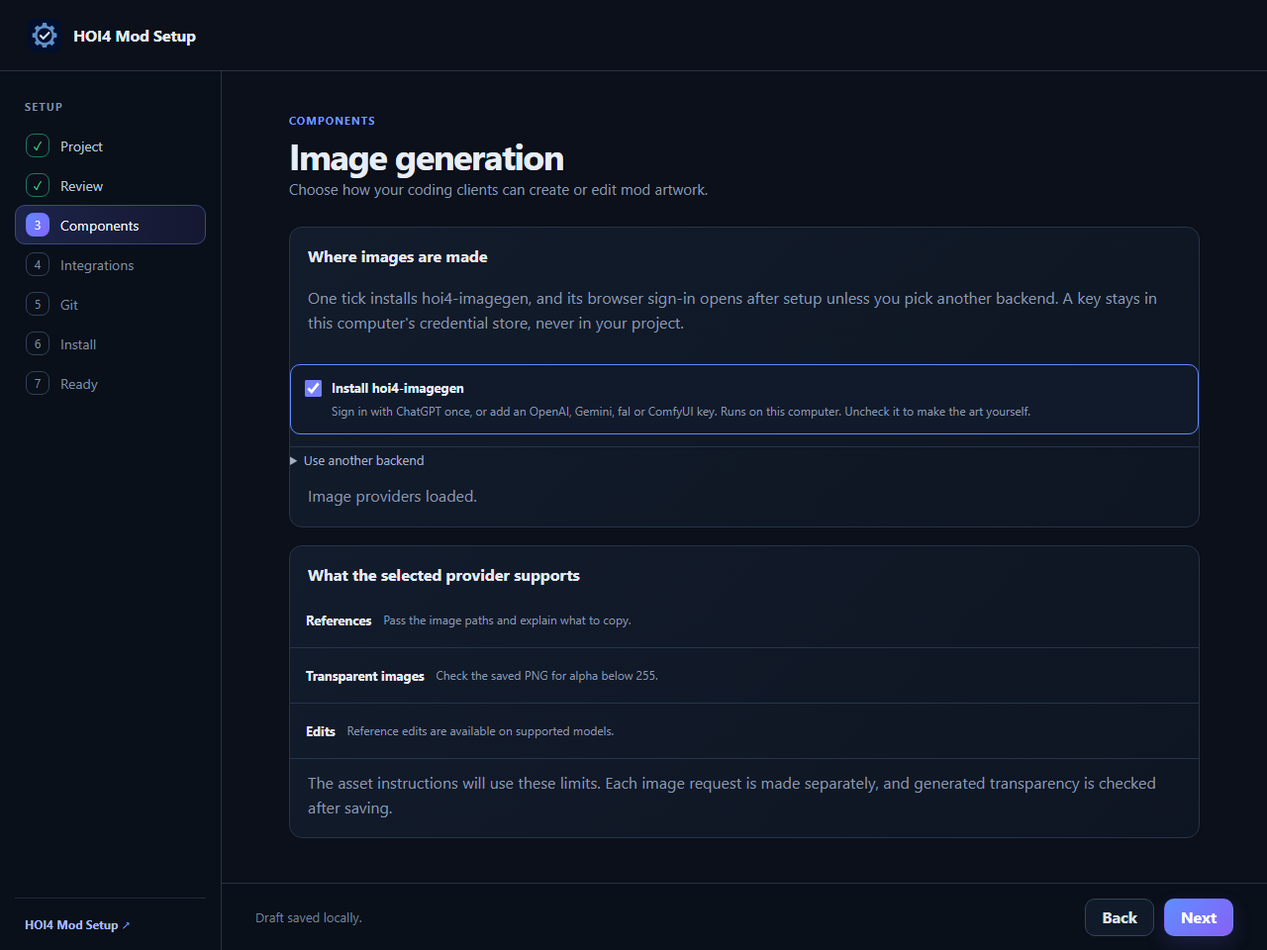
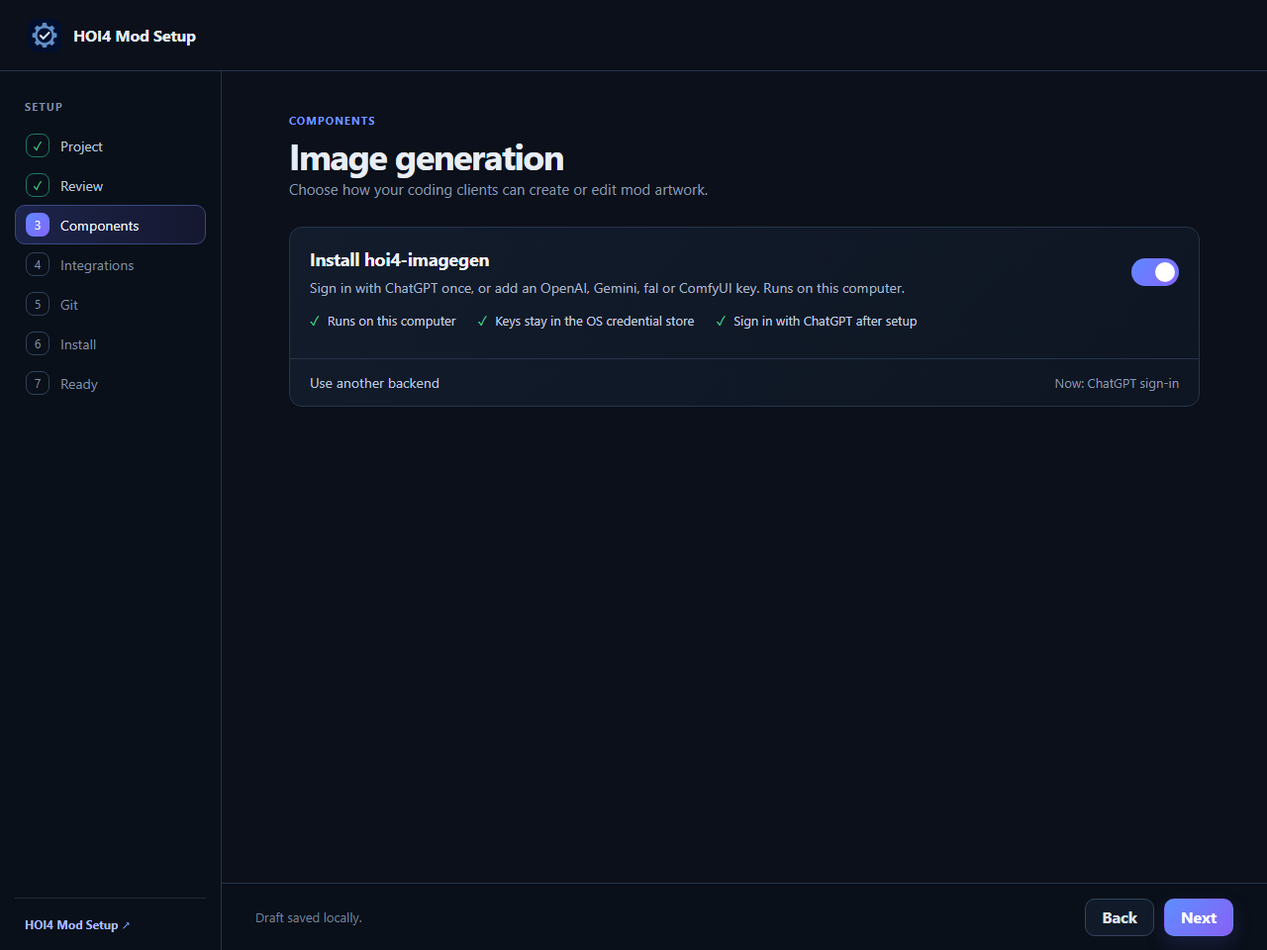
ui: redesign the image generation step; explain in-use stops on recovery
- Image generation: one switch card with three facts, backend tiles with a
  monogram and what each backend needs, and the capability rows inside the
  backend disclosure. The radio names stay the backend names.
- Recovery: an Access is denied / file-in-use error now tells the user to
  close the coding client or hoi4-imagegen window holding the file; undo
  alone does not help while it stays open.
- Narrow windows: the step heading no longer reserves 320 px of height.
- Fix a pattern with literal backspace characters, so npm errors get the
  Python hint again.

diff --git a/src/App.tsx b/src/App.tsx
@@ -4,7 +4,7 @@ import { applyInstallationResult, approveInstallation, checkInstallationRequirem
 import { deriveGeneratedIdentity, HOI4_DESCRIPTOR_TAGS } from "./identity";
 import { base64ByteLength, base64DataUrl, renderCoverPng, renderReferenceJpeg } from "./lib/images";
 import { backendSettingsProblem, imageSettingLabel, imageSettingProblem } from "./lib/imageSettings";
-import type { AiModelCatalogStatus, AiModelOption, AiProviderId, AiProviderProfile, AppUpdateStatus, CodingEnvironmentId, CodingEnvironmentSelection, CodexAnalysisConfirmationValues, CodexAnalysisRequest, ComponentRecommendation, ComponentRow, ConflictChoice, ConflictPreview, ContextDocumentState, ContextImageState, FolderSelection, GeneratedArtifactPreview, GitOnlineAction, GitOnlinePlan, GitOnlineResult, ImageGenerationProviderDefinition, ImageGenerationSelection, LiveTestingSelection, InstallationPlan, LocalPortraitDiscovery, ManifestComponentPreview, McpSupport, PhaseId, PortraitPipelineState, PortraitProviderId, PortraitProviderStatus, ProjectIdentity, ReadinessReport, RecoveryChoice, ScanFinding, ScanProgress, ScreenId, SemanticConventions, SetupRequirement, SemanticProposalKey, SourceManifestPreview, StatusTone, TransactionJournal, WizardState, WorkflowHealthResult, WorkflowState } from "./types";
+import type { AiModelCatalogStatus, AiModelOption, AiProviderId, AiProviderProfile, AppUpdateStatus, CodingEnvironmentId, CodingEnvironmentSelection, CodexAnalysisConfirmationValues, CodexAnalysisRequest, ComponentRecommendation, ComponentRow, ConflictChoice, ConflictPreview, ContextDocumentState, ContextImageState, FolderSelection, GeneratedArtifactPreview, GitOnlineAction, GitOnlinePlan, GitOnlineResult, ImageBackend, ImageGenerationProviderDefinition, ImageGenerationSelection, LiveTestingSelection, InstallationPlan, LocalPortraitDiscovery, ManifestComponentPreview, McpSupport, PhaseId, PortraitPipelineState, PortraitProviderId, PortraitProviderStatus, ProjectIdentity, ReadinessReport, RecoveryChoice, ScanFinding, ScanProgress, ScreenId, SemanticConventions, SetupRequirement, SemanticProposalKey, SourceManifestPreview, StatusTone, TransactionJournal, WizardState, WorkflowHealthResult, WorkflowState } from "./types";
 import appIcon from "../src-tauri/icons/icon.png";
 import claudeModels from "./claude-models.json";
 import freeAssistantConfig from "./free-assistant.json";
@@ -3461,19 +3461,50 @@ export function ImageGenerationSetup({ state, update }: { state: WizardState; up
   const backendField = imagegen?.route.credential_fields?.find((field) => field.id === backend?.credential_field);
   const backendKey = backendField ? `${IMAGEGEN_PROVIDER_ID}.${backendField.id}` : "";
   const backendKeySaved = Boolean(backendKey && selection.credential_references[backendKey]);
+  const backendHint = (option: ImageBackend) => {
+    if (option.default) return "No key needed. Sign in after setup.";
+    const field = imagegen?.route.credential_fields?.find((candidate) => candidate.id === option.credential_field);
+    if (field) return field.display_name;
+    if (option.settings.some((setting) => setting.kind === "url")) return "Your own server address";
+    return "No key needed";
+  };
+  const capabilities = primary && <div className="image-capabilities" role="group" aria-label="What this backend supports">
+    <div><strong>References</strong><span>{primary.capabilities.reference_images?.notes ?? "Check the selected provider's model limits."}</span></div>
+    <div><strong>Transparent images</strong><span>{primary.capabilities.transparent_background?.notes ?? "Check the selected provider's model limits."}</span></div>
+    <div><strong>Edits</strong><span>{primary.capabilities.image_edits ? "Reference edits are available on supported models." : "This provider may make a new image from references instead of editing."}</span></div>
+  </div>;
   return <div className="stack narrow">
-    <section className="panel">
-      <PanelTitle title="Where images are made" />
-      <p className="muted">One tick installs hoi4-imagegen, and its browser sign-in opens after setup unless you pick another backend. A key stays in this computer's credential store, never in your project.</p>
-      {!catalog && <p className="muted" role="status">{loadMessage}</p>}
-      {catalog && imagegen && legacyIds.length === 0 && <label className="coding-environment-option image-checkbox"><input type="checkbox" name="image-generation" checked={usingImagegen} disabled={!compatible(imagegen)} onChange={(event) => chooseImagegen(event.target.checked)} /><span className="coding-environment-copy"><strong>Install hoi4-imagegen</strong><small>{imagegen.description} Uncheck it to make the art yourself.</small></span></label>}
-      {catalog && imagegen && usingImagegen && legacyIds.length === 0 && backends.length > 0 && <details className="image-backend-details" open={Boolean(backend && !backend.default)}><summary>Use another backend</summary><div className="image-backend-panel">
-        <span className="field-label" id="image-backend-label">Generate with</span>
-        <div className="coding-environment-options" role="radiogroup" aria-labelledby="image-backend-label">{backends.map((option) => <label className="coding-environment-option" key={option.id}><input type="radio" name="image-backend" value={option.id} checked={backend?.id === option.id} onChange={() => chooseBackend(option.id)} /><span className="coding-environment-copy"><strong>{option.display_name}</strong>{option.default && <small>Default. Signs in with your ChatGPT account after setup.</small>}{option.live_verified === false && <small>Untested with the real service.</small>}</span></label>)}</div>
-        <p className="muted">Setup downloads hoi4-imagegen from its GitHub release, checks its SHA-256, and installs it in this project.{backend?.default ? " After setup you can sign in with ChatGPT on the last screen." : ""}</p>
-        {backendField && <div className="image-provider-secret" key={backendField.id}><label className="field-label" htmlFor={`image-secret-${backendKey}`}>{backendField.display_name}</label><div className="input-with-action"><input id={`image-secret-${backendKey}`} className="text-input" type="password" autoComplete="off" value={drafts[backendKey] ?? ""} onChange={(event) => update({ imageGenerationCredentialDrafts: { ...drafts, [backendKey]: event.target.value } })} /><button type="button" className="input-action" disabled={!drafts[backendKey]?.trim() || savingKey === backendKey} onClick={() => imagegen && void saveCredential(imagegen, backendField.id)}>{savingKey === backendKey ? "Saving…" : "Store"}</button>{backendKeySaved && <button type="button" className="text-button" onClick={() => imagegen && void deleteCredential(imagegen, backendField.id)}>Delete</button>}</div><small className="muted">{backendKeySaved ? "Stored in the operating-system credential vault." : "Needed only for this backend. The key is not added to project files."}</small></div>}
-        {backend?.settings.map((setting) => { const value = selection.route_settings[IMAGEGEN_PROVIDER_ID]?.[setting.key] ?? ""; const problem = imageSettingProblem(setting.kind, value); return <div className="image-provider-secret" key={setting.key}><Field label={`${imageSettingLabel(setting.key)}${setting.required ? "" : " (optional)"}`} value={value} onChange={(next) => setRouteSetting(IMAGEGEN_PROVIDER_ID, setting.key, next.trim())} placeholder={setting.default ?? undefined} />{problem && <small className="status-review" role="alert">{problem}</small>}</div>; })}
-      </div></details>}
+    <section className={`panel image-panel${usingImagegen ? " is-on" : ""}`}>
+      {!catalog && <p className="muted image-loading" role="status">{loadMessage}</p>}
+      {catalog && imagegen && legacyIds.length === 0 && <label className="image-install">
+        <span className="image-install-copy">
+          <strong>Install hoi4-imagegen</strong>
+          <small>{imagegen.description}</small>
+        </span>
+        <input className="switch" type="checkbox" name="image-generation" checked={usingImagegen} disabled={!compatible(imagegen)} onChange={(event) => chooseImagegen(event.target.checked)} />
+      </label>}
+      {catalog && imagegen && legacyIds.length === 0 && (usingImagegen
+        ? <ul className="image-facts" aria-label="How hoi4-imagegen runs">
+          <li>Runs on this computer</li>
+          <li>Keys stay in the OS credential store</li>
+          {backend?.default ? <li>Sign in with ChatGPT after setup</li> : <li>Checked against its SHA-256 before install</li>}
+        </ul>
+        : <p className="muted image-off">No image tool is installed. You add artwork yourself.</p>)}
+      {catalog && imagegen && usingImagegen && legacyIds.length === 0 && backends.length > 0 && <details className="image-backend-details" open={Boolean(backend && !backend.default)}>
+        <summary><span>Use another backend</span>{backend && <small className="image-backend-current">Now: {backend.display_name}</small>}</summary>
+        <div className="image-backend-panel">
+          <span className="visually-hidden" id="image-backend-label">Generate with</span>
+          <div className="image-backend-grid" role="radiogroup" aria-labelledby="image-backend-label">{backends.map((option) => <div className="image-backend-option" key={option.id}>
+            <input id={`image-backend-${option.id}`} type="radio" name="image-backend" value={option.id} checked={backend?.id === option.id} onChange={() => chooseBackend(option.id)} aria-describedby={`image-backend-hint-${option.id}`} />
+            <span className="image-backend-mark" aria-hidden="true">{option.display_name.replace(/[^A-Za-z0-9]/g, "").slice(0, 2).replace(/^./, (first) => first.toUpperCase()) || "?"}</span>
+            {/* Only the name labels the radio; the whole tile is clickable through the label's overlay. */}
+            <span className="image-backend-copy"><span className="image-backend-title"><label className="image-backend-name" htmlFor={`image-backend-${option.id}`}>{option.display_name}</label>{option.default && <span className="image-backend-pill">Default</span>}</span><small id={`image-backend-hint-${option.id}`}>{backendHint(option)}</small>{option.live_verified === false && <small className="image-backend-untested">Untested with the real service.</small>}</span>
+          </div>)}</div>
+          {backendField && <div className="image-provider-secret" key={backendField.id}><label className="field-label" htmlFor={`image-secret-${backendKey}`}>{backendField.display_name}</label><div className="input-with-action"><input id={`image-secret-${backendKey}`} className="text-input" type="password" autoComplete="off" value={drafts[backendKey] ?? ""} onChange={(event) => update({ imageGenerationCredentialDrafts: { ...drafts, [backendKey]: event.target.value } })} /><button type="button" className="input-action" disabled={!drafts[backendKey]?.trim() || savingKey === backendKey} onClick={() => imagegen && void saveCredential(imagegen, backendField.id)}>{savingKey === backendKey ? "Saving…" : "Store"}</button>{backendKeySaved && <button type="button" className="text-button" onClick={() => imagegen && void deleteCredential(imagegen, backendField.id)}>Delete</button>}</div><small className="muted">{backendKeySaved ? "Stored in the operating-system credential vault." : "Needed only for this backend. The key is not added to project files."}</small></div>}
+          {backend?.settings.map((setting) => { const value = selection.route_settings[IMAGEGEN_PROVIDER_ID]?.[setting.key] ?? ""; const problem = imageSettingProblem(setting.kind, value); return <div className="image-provider-secret" key={setting.key}><Field label={`${imageSettingLabel(setting.key)}${setting.required ? "" : " (optional)"}`} value={value} onChange={(next) => setRouteSetting(IMAGEGEN_PROVIDER_ID, setting.key, next.trim())} placeholder={setting.default ?? undefined} />{problem && <small className="status-review" role="alert">{problem}</small>}</div>; })}
+          {capabilities}
+        </div>
+      </details>}
       {catalog && legacyIds.map((id) => {
         const legacy = catalog.providers.find((candidate) => candidate.id === id);
         const name = legacy?.display_name ?? id;
@@ -3483,11 +3514,10 @@ export function ImageGenerationSetup({ state, update }: { state: WizardState; up
           {legacy && target ? <><p className="muted">hoi4-imagegen now covers it with the {target.display_name} backend.{legacy.replaced_by?.credential_moves.length ? " Moving keeps your saved key in this computer's credential store." : ""}</p><button type="button" className="button secondary" onClick={() => void moveToImagegen(legacy)}>Move to hoi4-imagegen ({target.display_name})</button></> : <p className="muted">hoi4-imagegen does not cover it yet. Nothing changes until it does.</p>}
         </div>;
       })}
-      {retiredListed && <p className="muted" role="note">GPTImage is retired. Setup no longer installs it; use the ChatGPT sign-in in hoi4-imagegen instead.</p>}
-      {message && <p role="status" className="muted">{message}</p>}
-      <p className="muted" aria-live="polite">{loadMessage}</p>
+      {retiredListed && <p className="muted image-note" role="note">GPTImage is retired. Setup no longer installs it; use the ChatGPT sign-in in hoi4-imagegen instead.</p>}
+      {message && <p role="status" className="muted image-note">{message}</p>}
+      {catalog && <p className="visually-hidden" aria-live="polite">{loadMessage}</p>}
     </section>
-    {catalog && <section className="panel"><PanelTitle title="What the selected provider supports" /><div className="list-row"><strong>References</strong><span>{primary?.capabilities.reference_images?.notes ?? "Check the selected provider's model limits."}</span></div><div className="list-row"><strong>Transparent images</strong><span>{primary?.capabilities.transparent_background?.notes ?? "Check the selected provider's model limits."}</span></div><div className="list-row"><strong>Edits</strong><span>{primary?.capabilities.image_edits ? "Reference edits are available on supported models." : "This provider may make a new image from references instead of editing."}</span></div><p className="muted">The asset instructions will use these limits. Each image request is made separately, and generated transparency is checked after saving.</p></section>}
   </div>;
 }
 
@@ -4452,7 +4482,10 @@ function readableRecoveryAction(value: string) {
 /** One plain sentence for what to do about a recorded setup failure. */
 export function recoveryNextStep(message: string | undefined, rollbackAllowed: boolean): string {
   const undo = rollbackAllowed ? "Choose Undo changes to return your mod to how it was before this setup began, then" : "Choose an option below, then";
-  if (message && /python|node\.js|npm|winget/i.test(message)) {
+  if (message && /access is denied|os error (?:5|32|33)\b|being used by another process|\bEBUSY\b|\bEPERM\b/i.test(message)) {
+    return "Another program is using a file in this project. That is usually a coding client (Claude Code, Codex, Cursor and others) running the project's MCP servers, or the hoi4-imagegen sign-in window. Close it, then choose Continue setup or try again. Undo changes alone does not help while that program stays open.";
+  }
+  if (message && /python|node\.js|\bnpm\b|winget/i.test(message)) {
     return `${undo} install Python from python.org (tick “Add python.exe to PATH”) and set up again. HOI4 Agent Tools needs it.`;
   }
   return `${undo} try again. If it stops at the same point, choose Copy diagnostics and include it in a report.`;

diff --git a/src/styles.css b/src/styles.css
@@ -404,7 +404,7 @@ details p { margin: 0; padding: 0 16px 16px; line-height: 1.55; }
 
 @media (max-width: 900px) {
   .app-shell { width: 100%; min-height: 100vh; }
-  .workspace { grid-template-columns: 1fr; }.phase-rail { flex-direction: row; overflow-x: auto; padding: 10px 12px; border-right: 0; border-bottom: 1px solid var(--line); }.rail-label, .rail-repo { display: none; }.phase-item { flex: 0 0 auto; min-height: 34px; padding: 5px 8px; }.phase-number { width: 20px; height: 20px; }.content-scroll { padding: 28px 20px 40px; }.screen-heading { flex-direction: column; }.screen-heading .status { align-self: flex-start; }.footer-bar { flex-wrap: wrap; padding: 12px 20px; align-items: flex-end; }.footer-note { max-width: none; flex: 1 1 220px; }.footer-actions { flex: 1 1 auto; }.two-column, .choice-grid, .diff-grid { grid-template-columns: 1fr; }.recovery-grid { grid-template-columns: 1fr; }.diff-pane { min-height: 250px; }.diff-code { min-height: 200px; }.existing-setup-callout { align-items: stretch; flex-direction: column; }.maintenance-key { margin-left: 0; }
+  .workspace { grid-template-columns: 1fr; }.phase-rail { flex-direction: row; overflow-x: auto; padding: 10px 12px; border-right: 0; border-bottom: 1px solid var(--line); }.rail-label, .rail-repo { display: none; }.phase-item { flex: 0 0 auto; min-height: 34px; padding: 5px 8px; }.phase-number { width: 20px; height: 20px; }.content-scroll { padding: 28px 20px 40px; }.screen-heading { flex-direction: column; }.screen-heading > div:first-child { flex: 0 0 auto; width: 100%; }.screen-heading .status { align-self: flex-start; }.footer-bar { flex-wrap: wrap; padding: 12px 20px; align-items: flex-end; }.footer-note { max-width: none; flex: 1 1 220px; }.footer-actions { flex: 1 1 auto; }.two-column, .choice-grid, .diff-grid { grid-template-columns: 1fr; }.recovery-grid { grid-template-columns: 1fr; }.diff-pane { min-height: 250px; }.diff-code { min-height: 200px; }.existing-setup-callout { align-items: stretch; flex-direction: column; }.maintenance-key { margin-left: 0; }
   .proposal-list { grid-template-columns: 1fr; }
   .tag-options { grid-template-columns: repeat(2, minmax(0, 1fr)); }
 }
@@ -492,3 +492,48 @@ details p { margin: 0; padding: 0 16px 16px; line-height: 1.55; }
 .image-checkbox { margin-top: 12px; }
 .image-backend-details { margin-top: 12px; }
 .image-backend-details > summary { cursor: pointer; font-size: 13px; padding: 4px 0; }
+
+/* Image generation: one switch card, facts, and the backend grid behind a disclosure. */
+.image-panel { display: grid; gap: 0; }
+.image-loading, .image-note { margin: 0; padding: 14px 20px; }
+.image-install { display: flex; align-items: center; gap: 20px; padding: 20px 20px 14px; cursor: pointer; }
+.image-install-copy { min-width: 0; flex: 1; display: grid; gap: 6px; }
+.image-install-copy strong { color: #eef2fa; font-size: 18px; font-weight: 750; letter-spacing: -.01em; }
+.image-install-copy small { color: var(--muted-strong); font-size: 14px; line-height: 1.5; }
+.switch { appearance: none; position: relative; width: 48px; height: 28px; flex: 0 0 auto; margin: 0; border: 1px solid #3a4a66; border-radius: 999px; background: #1a2438; cursor: pointer; transition: background .15s ease, border-color .15s ease; }
+.switch::after { content: ""; position: absolute; top: 3px; left: 3px; width: 20px; height: 20px; border-radius: 50%; background: #8a98ad; transition: transform .15s ease, background .15s ease; }
+.switch:checked { border-color: transparent; background: linear-gradient(135deg, var(--blue), var(--violet)); }
+.switch:checked::after { transform: translateX(20px); background: #fff; }
+.switch:disabled { opacity: .5; cursor: not-allowed; }
+.switch:focus-visible { outline: 2px solid var(--focus); outline-offset: 3px; }
+.image-facts { display: flex; flex-wrap: wrap; gap: 8px 22px; margin: 0; padding: 0 20px 18px; list-style: none; }
+.image-facts li { display: flex; align-items: center; gap: 8px; color: #c3cee0; font-size: 13px; }
+.image-facts li::before { content: "✓"; color: var(--green); font-weight: 800; }
+.image-off { margin: 0; padding: 0 20px 18px; font-size: 14px; }
+.image-backend-details > summary { display: flex; align-items: center; gap: 12px; padding: 14px 20px; color: #b9c6db; font-size: 14px; }
+.image-backend-current { margin-left: auto; color: var(--muted); font-size: 13px; }
+.image-panel .image-backend-panel { gap: 14px; margin-top: 0; padding: 0 20px 20px; }
+.image-backend-grid { display: grid; grid-template-columns: repeat(auto-fill, minmax(240px, 1fr)); gap: 10px; }
+.image-backend-option { position: relative; min-width: 0; display: flex; align-items: center; gap: 12px; padding: 14px; border: 1px solid #344864; border-radius: 12px; background: #0a111c; cursor: pointer; }
+.image-backend-option:hover { border-color: #4a5f86; }
+.image-backend-option:has(input:checked) { border-color: #6f86ff; background: #121b31; box-shadow: 0 0 0 1px #6f86ff inset; }
+.image-backend-option:has(input:focus-visible) { outline: 2px solid var(--focus); outline-offset: 2px; }
+.image-backend-option input { position: relative; z-index: 1; width: 17px; height: 17px; flex: 0 0 auto; margin: 0; accent-color: #7680ff; }
+.image-backend-mark { width: 34px; height: 34px; flex: 0 0 auto; display: grid; place-items: center; border: 1px solid #33456a; border-radius: 9px; color: #c9d5ff; background: #15203a; font-size: 12px; font-weight: 800; letter-spacing: .02em; }
+.image-backend-copy { min-width: 0; flex: 1; display: grid; gap: 3px; }
+.image-backend-title { display: flex; flex-wrap: wrap; align-items: center; gap: 8px; }
+.image-backend-name { color: #e8edf7; font-size: 14px; font-weight: 700; cursor: pointer; }
+.image-backend-name::after { content: ""; position: absolute; inset: 0; border-radius: 12px; }
+.image-backend-copy small { color: var(--muted); font-size: 12px; line-height: 1.4; }
+.image-backend-pill { padding: 1px 8px; border-radius: 999px; color: #fff; background: #5865f2; font-size: 11px; font-weight: 750; }
+.image-capabilities { display: grid; border: 1px solid var(--line); border-radius: 12px; }
+.image-capabilities > div { display: grid; grid-template-columns: 11rem minmax(0, 1fr); gap: 12px; padding: 11px 14px; border-bottom: 1px solid var(--line); font-size: 13px; }
+.image-capabilities > div:last-child { border-bottom: 0; }
+.image-capabilities strong { color: #dbe3f1; }
+.image-capabilities span { color: var(--muted-strong); }
+@media (max-width: 640px) {
+  .image-capabilities > div { grid-template-columns: 1fr; gap: 4px; }
+  .image-install { align-items: flex-start; }
+}
+@media (prefers-reduced-motion: reduce) { .switch, .switch::after { transition: none; } }
+.image-backend-untested { color: var(--amber) !important; }

diff --git a/src/App.test.tsx b/src/App.test.tsx
@@ -2,7 +2,7 @@ import { backendSettingsProblem } from "./lib/imageSettings";
 import { act, cleanup, fireEvent, render, screen, waitFor, within } from "@testing-library/react";
 import { StrictMode, useState } from "react";
 import { afterEach, beforeEach, describe, expect, it, vi } from "vitest";
-import App, { CopyDiagnosticsButton, analysisBrief, CodingEnvironments, Components, ContextAttachments, contextEvidence, Conflict, DryRun, Findings, Identity, ImageGenerationSetup, LiveTestingSetup, liveTestingSelectionValid, Mcp, Mesh, Ready, Scan, Update, UpdateSourceOptions, Welcome, Workflows, buildAnalysisConfirmationValues, dynamicMaintenanceOptionalComponentIds, estimatePlanPreparationProgress, estimateRemainingTime, estimateSemanticPlanningProgress, imageGenerationComponentIds, initialState, integrationReviewNeeded, maintenanceReviewScreen, nextScreen, previousScreen, manifestComponentSupportsPlatform, normalizeCodingEnvironmentSelection, codingEnvironmentOptions, recoveryProgress } from "./App";
+import App, { recoveryNextStep, CopyDiagnosticsButton, analysisBrief, CodingEnvironments, Components, ContextAttachments, contextEvidence, Conflict, DryRun, Findings, Identity, ImageGenerationSetup, LiveTestingSetup, liveTestingSelectionValid, Mcp, Mesh, Ready, Scan, Update, UpdateSourceOptions, Welcome, Workflows, buildAnalysisConfirmationValues, dynamicMaintenanceOptionalComponentIds, estimatePlanPreparationProgress, estimateRemainingTime, estimateSemanticPlanningProgress, imageGenerationComponentIds, initialState, integrationReviewNeeded, maintenanceReviewScreen, nextScreen, previousScreen, manifestComponentSupportsPlatform, normalizeCodingEnvironmentSelection, codingEnvironmentOptions, recoveryProgress } from "./App";
 import { applyInstallationResult, approveInstallation, runAgentSetupResult, approveScanEvidence, buildInstallationPlanResult, buildMaintenancePlanResult, cancelClaudeLogin, cancelCodexLogin, checkForAppUpdate, checkInstallationRequirements, confirmCodexAnalysis, draftModDescription, findInterruptedTransaction, forgetContextAttachment, installAppUpdate, moveImageGenerationCredential, logoutClaudeResult, logoutCodexResult, openCodexLoginUrlResult, openExternalUrlResult, openInCodingEnvironment, pickContextDocuments, pickContextImages, pickProjectFolder, previewDescriptorsResult, previewInstallationConflict, previewSourceManifestResult, readAiAccount, readAiModels, readCodexAccount, readTransactionJournal, removeImageGenerationCredential, rollbackInstallationResult, runCodexAnalysisResult, scanProject, startClaudeLogin, startCodexLogin, storeImageGenerationCredential, suggestProjectPaths, waitForClaudeLoginResult, waitForCodexLoginResult, readDiagnostics } from "./lib/tauri";
 import type { AiAccountStatus, AiProviderId, CodexAnalysisResult, ContextDocument, ContextImage, FolderSelection, InstallationPlan, ScanFinding, ScanProgress, SourceManifestPreview, WizardState } from "./types";
 import { renderCoverPng, renderReferenceJpeg } from "./lib/images";
@@ -3334,5 +3334,20 @@ describe("optional setup context", () => {
     expect(screen.getByText("Context changed — run the review again to use it.")).toBeInTheDocument();
     fireEvent.click(screen.getByRole("button", { name: "Review again" }));
     expect(update).toHaveBeenCalledWith(expect.objectContaining({ codexAnalysis: undefined, codexAnalysisRecord: undefined, plan: undefined }));
+  });
+});
+
+describe("recovery guidance", () => {
+  it("tells the user to close the program that holds a file when Windows refuses access", () => {
+    for (const message of [
+      "transaction error: post-install action imagegen.hoi4_imagegen could not use a file: Access is denied. (os error 5)",
+      "The process cannot access the file because it is being used by another process. (os error 32)",
+      "npm error code EBUSY",
+    ]) {
+      expect(recoveryNextStep(message, true)).toMatch(/Close it/);
+      expect(recoveryNextStep(message, true)).toMatch(/Undo changes alone does not help/);
+    }
+    expect(recoveryNextStep("npm was not found", true)).toMatch(/python[.]org/);
+    expect(recoveryNextStep("something else", false)).toMatch(/Copy diagnostics/);
   });
 });

diff --git a/CHANGELOG.md b/CHANGELOG.md
@@ -4,6 +4,10 @@ HOI4 Mod Setup follows semantic versioning.
 
 ## Unreleased
 
+- Redesign the Image generation step: one switch card for hoi4-imagegen with what it does at a glance, and the other backends as labelled tiles (with what each needs, such as an API key or a server address) and their limits behind "Use another backend". The leftover "Image providers loaded." line is gone.
+- Explain an "Access is denied" or "file in use" stop on the recovery screen: close the coding client or hoi4-imagegen window that holds the file, then continue. Undo changes alone did not help while that program stayed open.
+- Fix the step heading reserving a large empty gap above the content in narrow windows.
+- Fix the Python hint on the recovery screen never showing for npm errors (a broken pattern in the check).
 - Fix an Update or repair that stopped with "Access is denied" when the previous hoi4-imagegen version could not be deleted because its program was still running (for example the sign-in the Ready screen started). Setup now keeps that version and reports it, and the next Update or Repair removes it.
 - Fix an intermittent Windows failure of Update and repair with "Access is denied (os error 5)" while the hoi4-imagegen files were checked. A virus scanner or indexer that had just seen a file could refuse a read-only open for a moment, so Setup now retries opening an existing file or folder up to seven times over about 6 seconds (Windows access, sharing and lock violations only; never creating, writing or deleting). A post-install error that carries no message of its own now names the component, and the hoi4-imagegen install check names the step, in the transaction journal.
 - Fix the image sign-in check showing "Signed in" for a signed-out user. `hoi4-imagegen login-status` always exits 0 without `--check`, so Setup now reads its text (`signed in;` versus `not signed in (...)`) as well as the exit code, and the Ready page opens the sign-in when needed.
